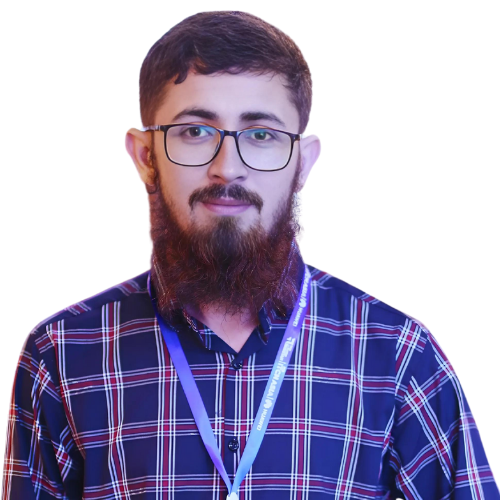
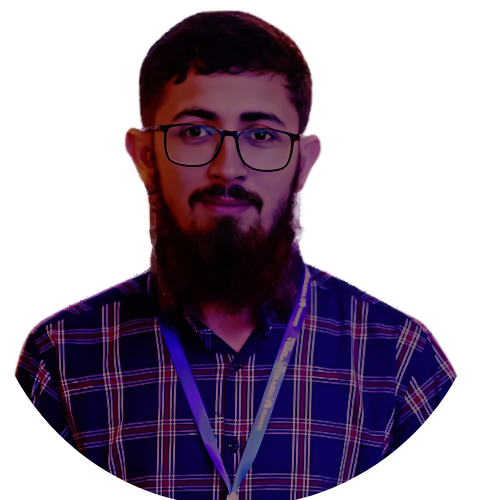
complete

diff --git a/src/components/Photo.jsx b/src/components/Photo.jsx
@@ -18,7 +18,7 @@ function Photo() {
              opacity: 1,
              transition: { delay: 2.4, duration: 0.3, ease: 'easeInOut' },
             }}
-            className='w-[248px] h-[248px] xl:w-[398px] xl:h-[398px] mix-blend-lighten absolute'>
+            className='w-[248px] h-[248px] xl:w-[400px] xl:h-[400px] mix-blend-lighten absolute'>
                 <Image 
                   src='/assets/pic.png'
                   priority
@@ -31,7 +31,7 @@ function Photo() {
 
             <motion.svg className="w-[250px] xl:w-[406px] h-[250px] xl:h-[406px]"
             fill="transparent"
-            viewBox="0 0 506 506"
+            viewBox="0 0 512 512"
             xmlns="http://www.w3.org/2000/svg"
             >
               <motion.circle 
